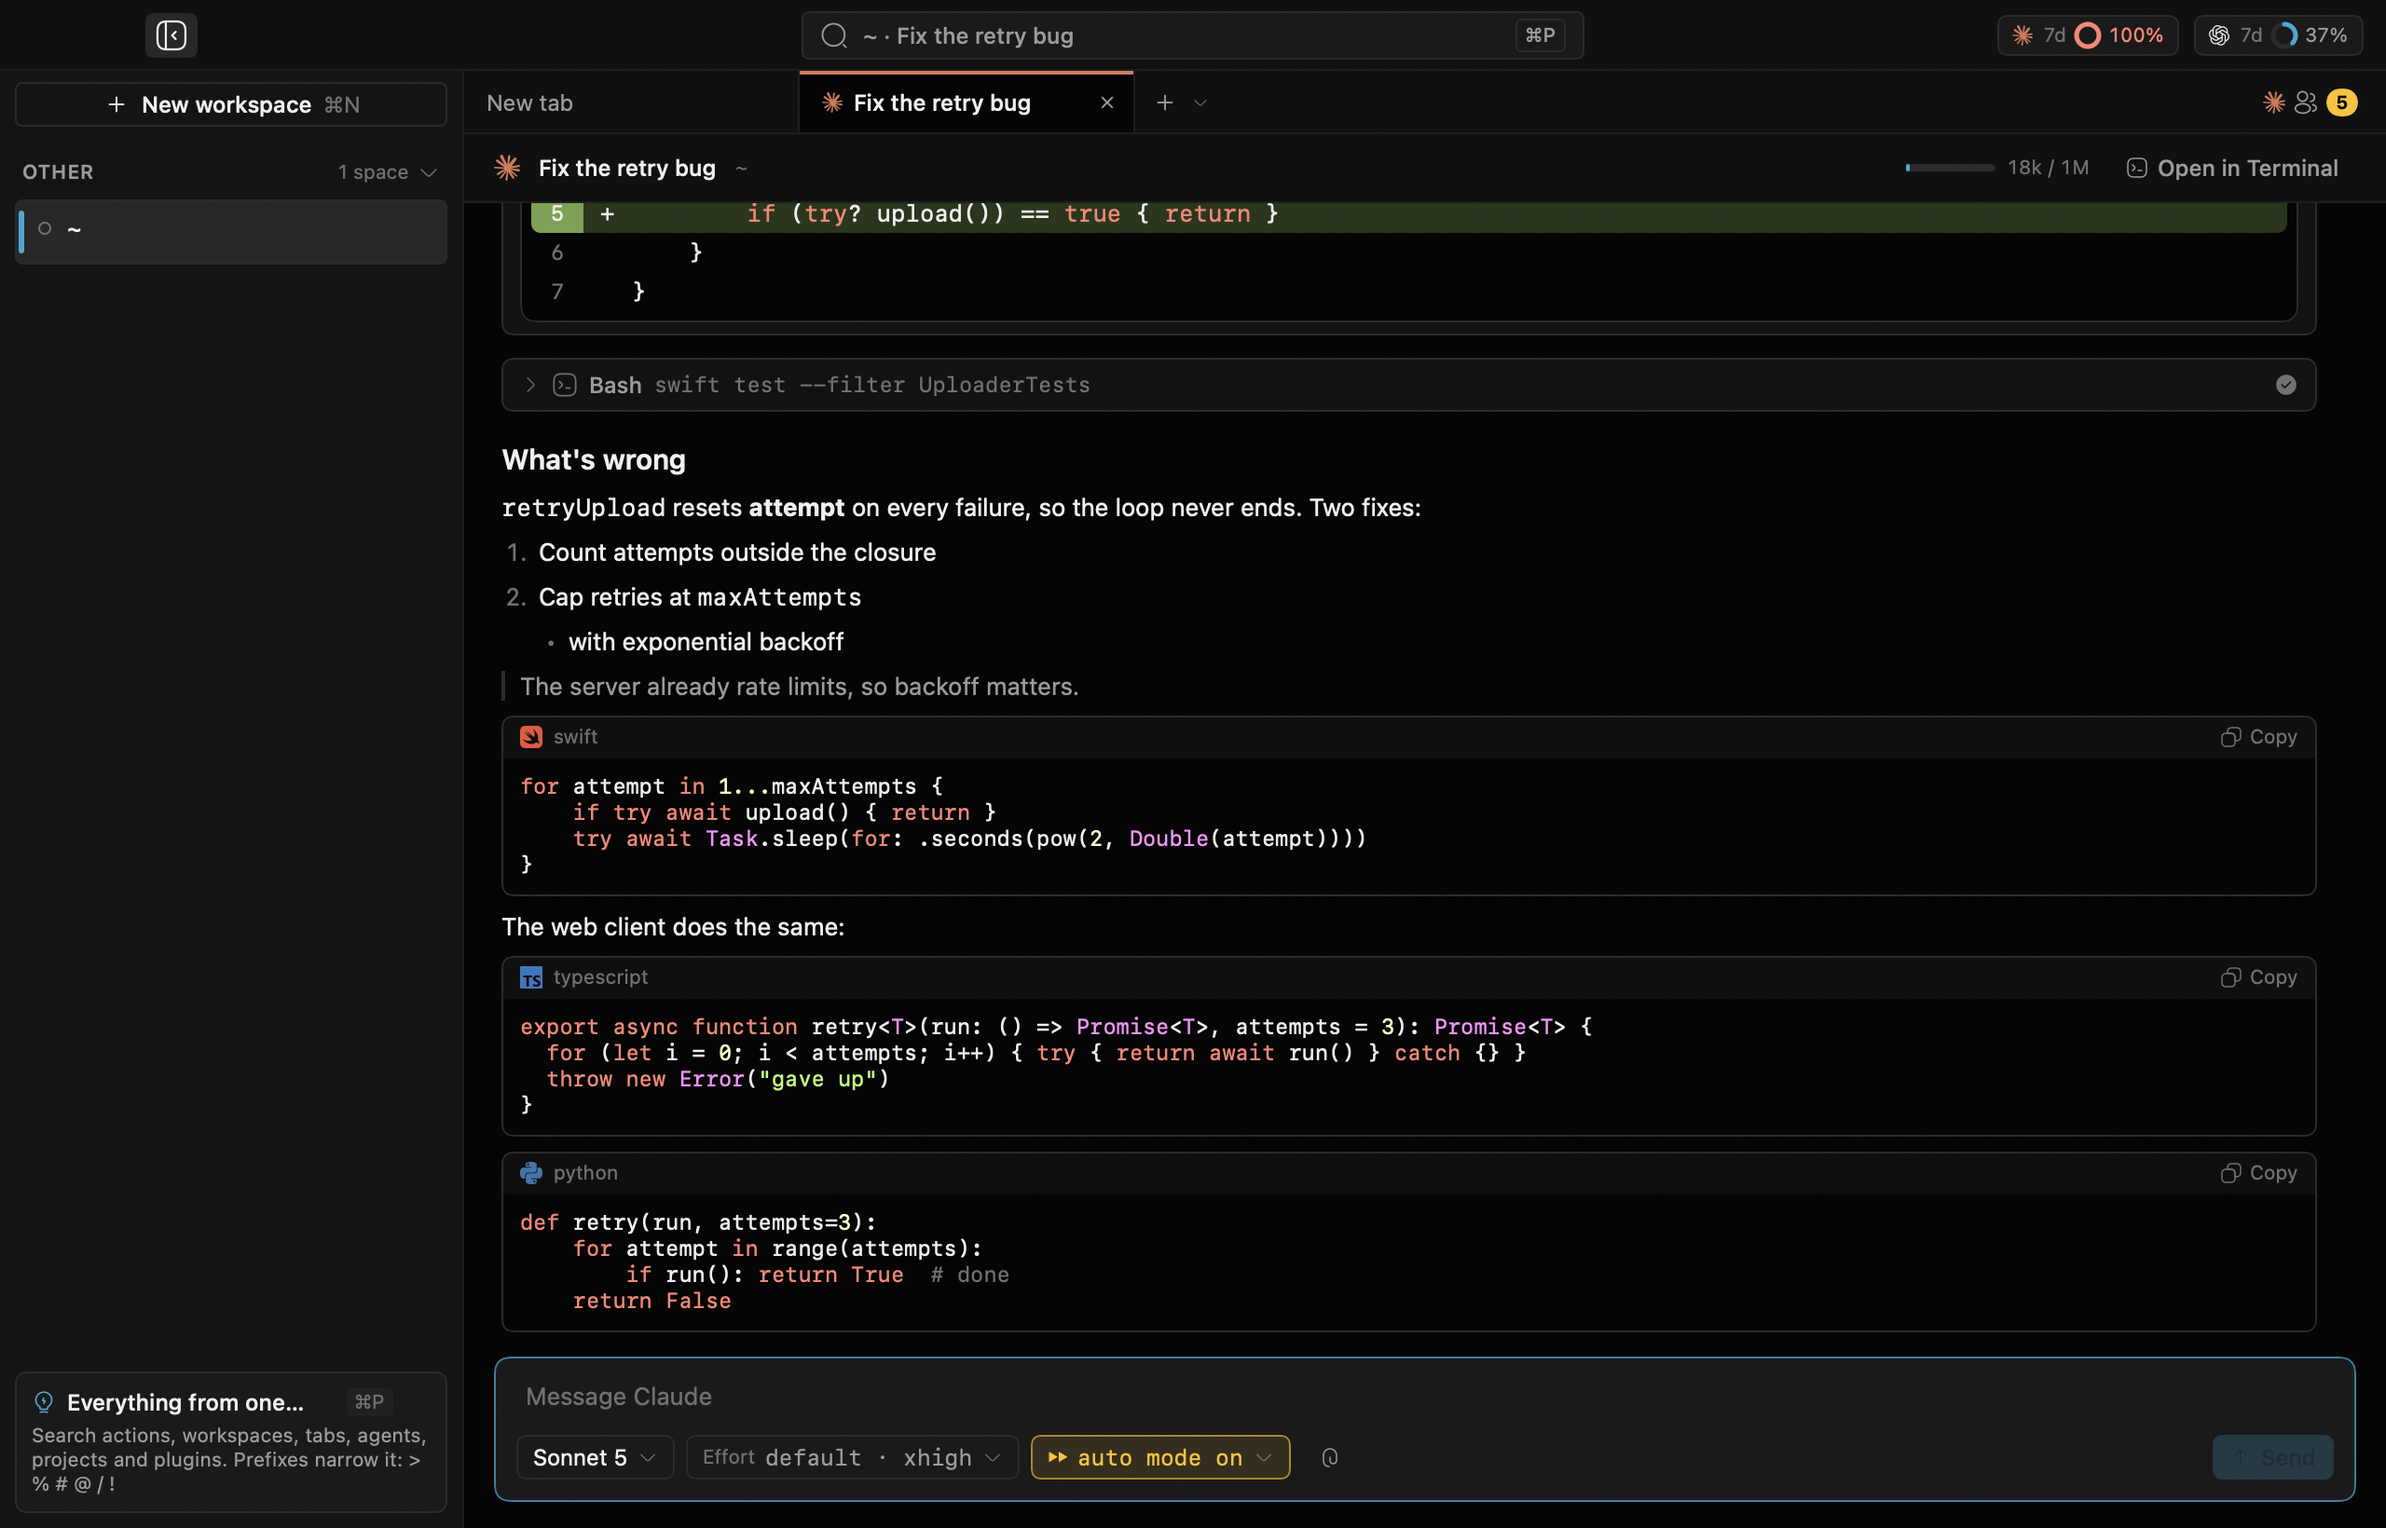
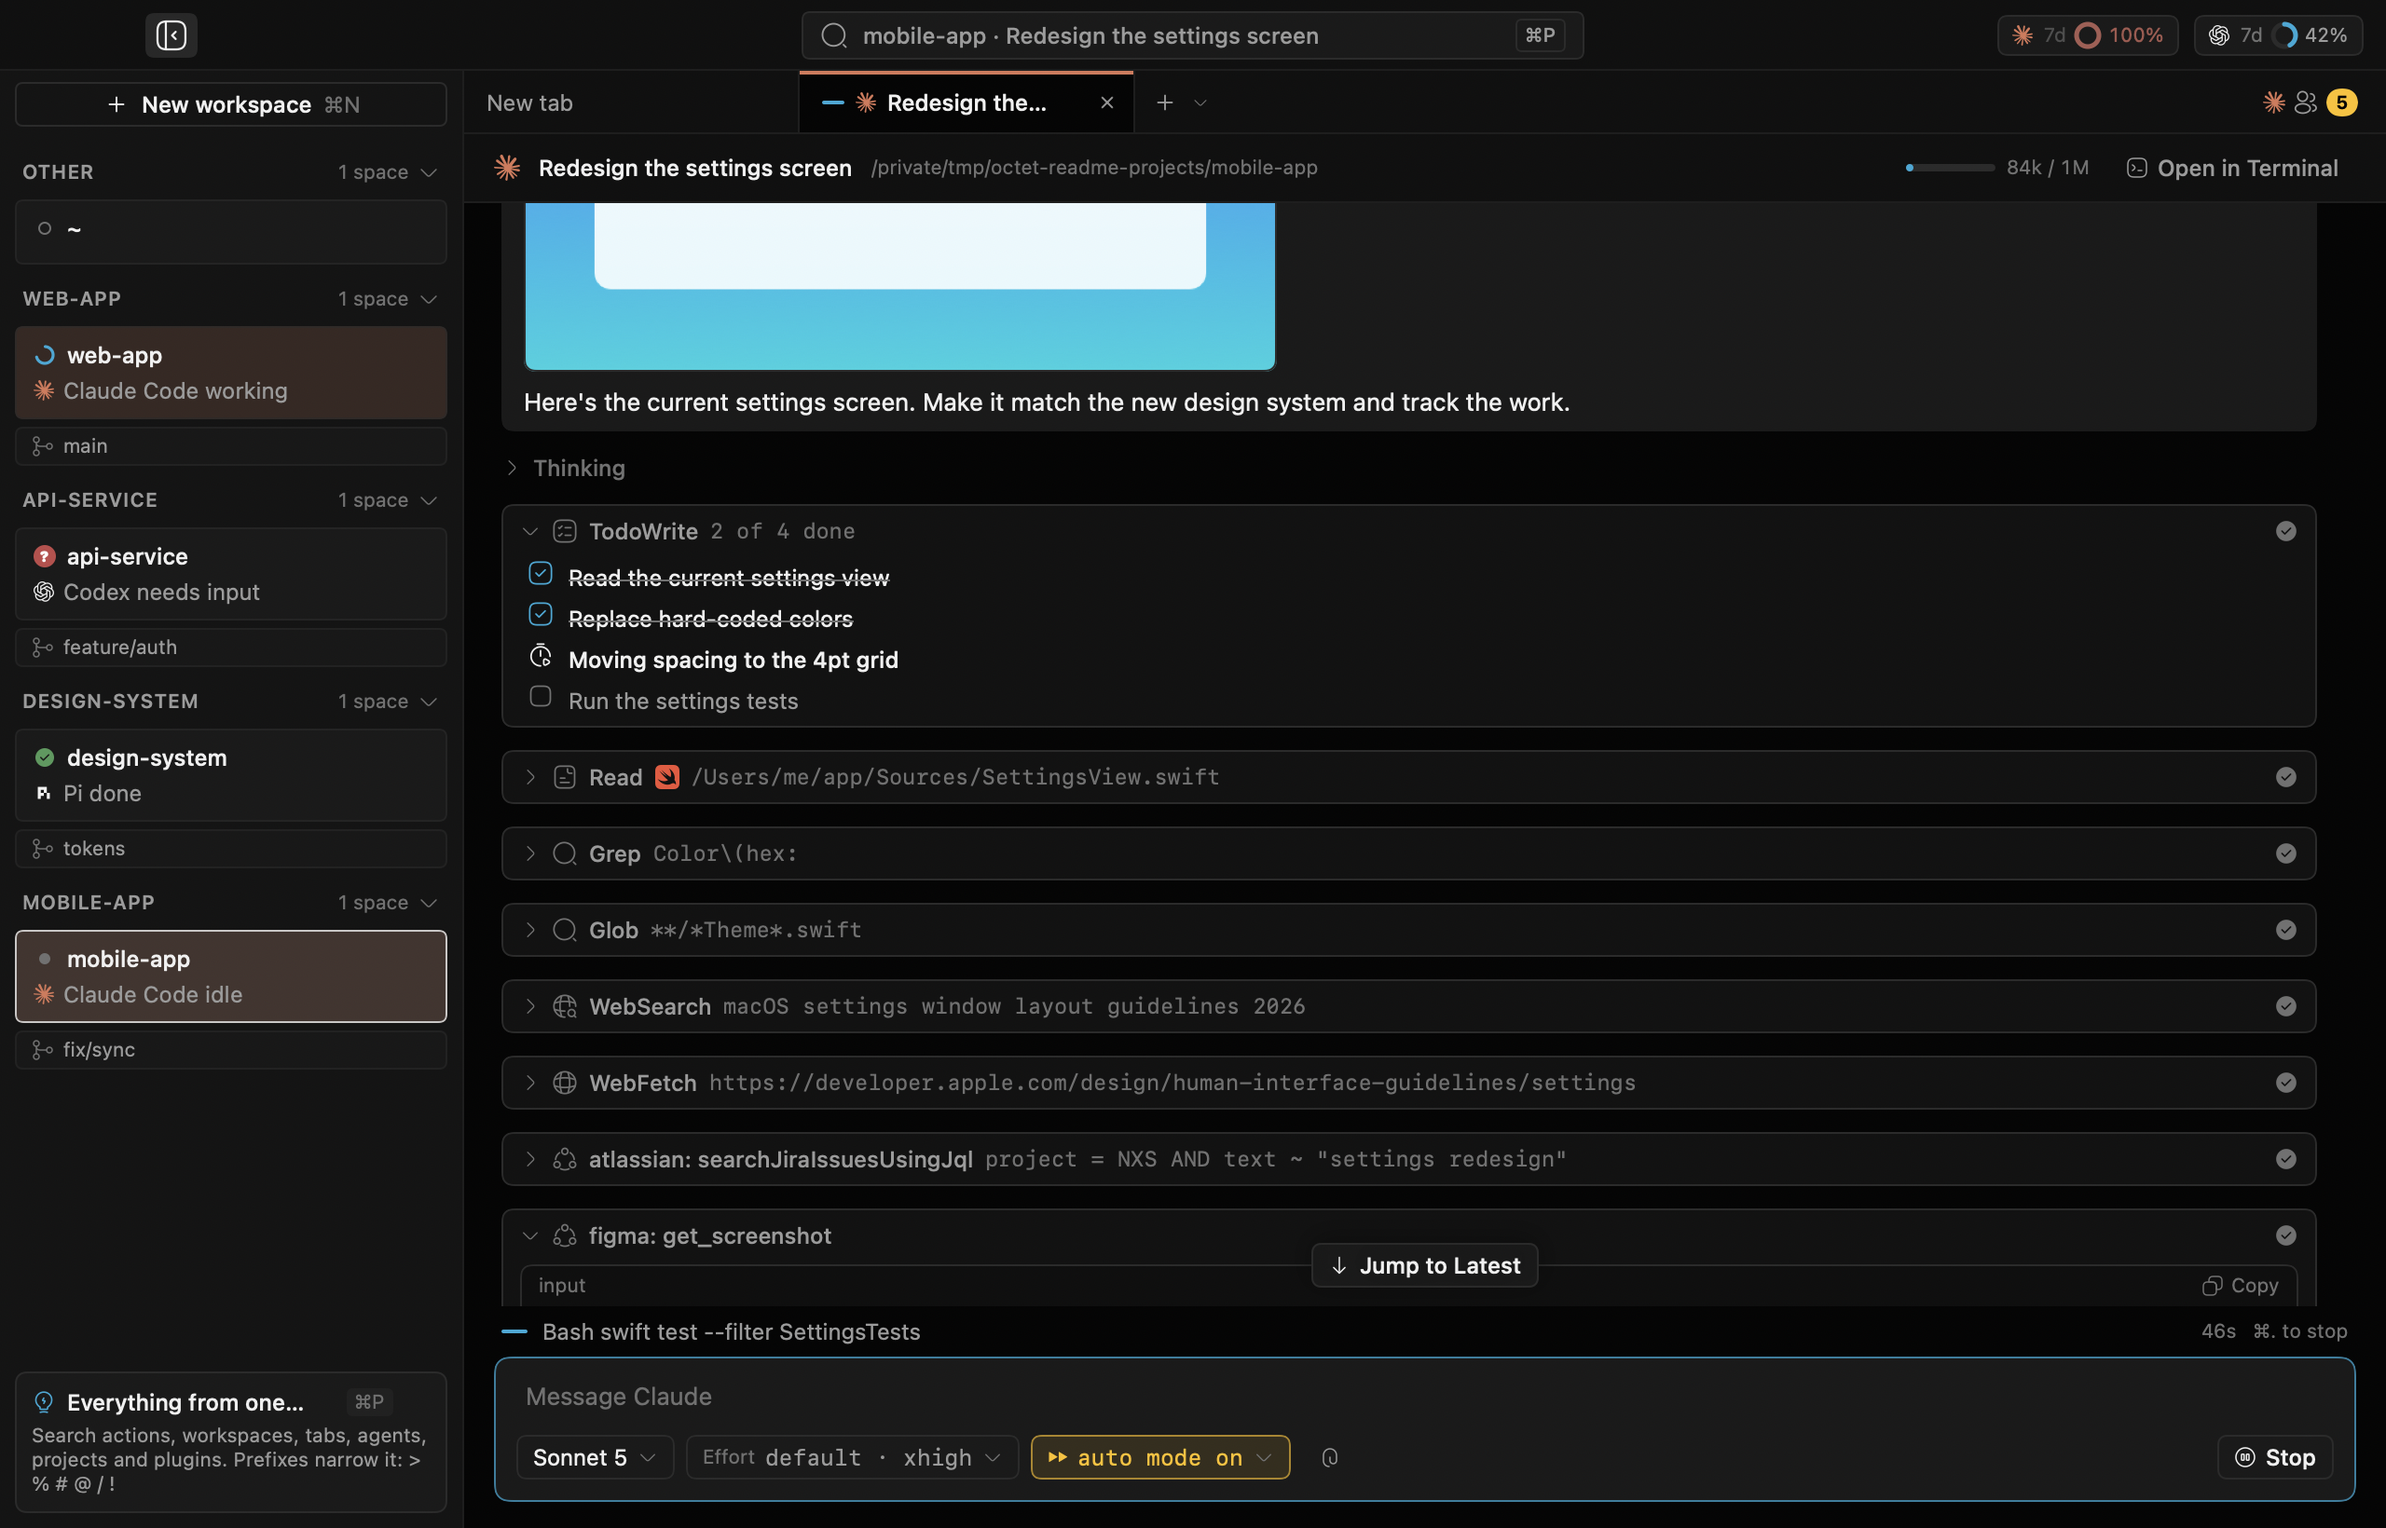
Polish sidebar states and README preview

diff --git a/Octet/Sidebar/AgentBadge.swift b/Octet/Sidebar/AgentBadge.swift
@@ -5,30 +5,51 @@ import SwiftUI
 struct AgentStateGlyph: View {
     let status: EngineAgentStatus
     var size: CGFloat = 10
+    @ObservedObject private var motion = MotionPreferences.shared
+    @State private var appeared = false
 
     var body: some View {
-        switch status {
-        case .working:
-            if MotionPreferences.shared.animates(.agentStatus) {
-                SpinnerArc(size: size)
-            } else {
-                Circle()
-                    .trim(from: 0.15, to: 0.85)
-                    .stroke(Theme.accent, style: StrokeStyle(lineWidth: 1.6, lineCap: .round))
-                    .frame(width: size - 1, height: size - 1)
-            }
-        case .blocked:
-            Image("state-blocked")
-                .resizable()
+        Group {
+            switch status {
+            case .working:
+                if motion.animates(.agentStatus) {
+                    SpinnerArc(size: size)
+                } else {
+                    Circle()
+                        .trim(from: 0.15, to: 0.85)
+                        .stroke(Theme.accent, style: StrokeStyle(lineWidth: 1.6, lineCap: .round))
+                        .frame(width: size - 1, height: size - 1)
+                }
+            case .blocked:
+                ZStack {
+                    Circle().fill(Color(hex: AgentStateColor.blocked))
+                    Text("?")
+                        .font(.system(size: size * 0.78, weight: .black, design: .rounded))
+                        .foregroundStyle(Color.white)
+                        .offset(y: -0.25)
+                }
                 .frame(width: size + 2, height: size + 2)
-                .foregroundStyle(Color(hex: AgentStateColor.blocked))
-        case .done:
-            OctetIcon("checkmark", size: (size - 1) * 1.35)
-                .foregroundStyle(Color(hex: AgentStateColor.done))
-        case .idle:
-            Circle().fill(Theme.textTertiary).frame(width: size - 4, height: size - 4)
-        case .unknown:
-            Circle().strokeBorder(Theme.textTertiary, lineWidth: 1).frame(width: size - 3, height: size - 3)
+            case .done:
+                OctetIcon("checkmark", size: (size - 1) * 1.35)
+                    .foregroundStyle(Color(hex: AgentStateColor.done))
+            case .idle:
+                Circle().fill(Theme.textTertiary).frame(width: size - 4, height: size - 4)
+            case .unknown:
+                Circle().strokeBorder(Theme.textTertiary, lineWidth: 1).frame(width: size - 3, height: size - 3)
+            }
+        }
+        .scaleEffect(appeared ? 1 : 0.55)
+        .opacity(appeared ? 1 : 0)
+        .onAppear { animateIn() }
+        .onChange(of: status) { _, _ in
+            appeared = false
+            DispatchQueue.main.async { animateIn() }
+        }
+    }
+
+    private func animateIn() {
+        motion.perform(.agentStatus, .spring(response: 0.28, dampingFraction: 0.62)) {
+            appeared = true
         }
     }
 }

diff --git a/Octet/Tabs/TabBarView.swift b/Octet/Tabs/TabBarView.swift
@@ -207,11 +207,12 @@ private struct TabItem: View {
                 }
                 // A single selection surface slides between tabs.
                 if isActive {
-                    ZStack {
+                    ZStack(alignment: .top) {
                         Theme.terminalBackground
                         if let hue = brand?.hueHex { Color(hex: hue).opacity(0.08) }
                         Rectangle()
-                            .strokeBorder(Theme.textPrimary.opacity(0.72), lineWidth: 1)
+                            .fill(brand?.hueHex.map { Color(hex: $0) } ?? Theme.accent)
+                            .frame(height: 2)
                     }
                     .matchedGeometryEffect(id: "selectedTab", in: selection)
                 }
@@ -556,10 +557,9 @@ private struct ConversationTab: View {
             ZStack {
                 if hovered && !isActive { Theme.hover }
                 if isActive {
-                    ZStack {
+                    ZStack(alignment: .top) {
                         Theme.terminalBackground
-                        Rectangle()
-                            .strokeBorder(Theme.textPrimary.opacity(0.72), lineWidth: 1)
+                        Rectangle().fill(brand?.hueHex.map { Color(hex: $0) } ?? Theme.accent).frame(height: 2)
                     }
                     .matchedGeometryEffect(id: "selectedTab", in: selection)
                 }

diff --git a/Octet/App/RootView.swift b/Octet/App/RootView.swift
@@ -190,19 +190,10 @@ struct RootView: View {
             MarketplaceWindow.opener = { openWindow(id: MarketplaceWindow.id) }
             ClipboardWatcher.shared.start()
             #if DEBUG
-            let readmeDemo = ProcessInfo.processInfo.environment["OCTET_README_DEMO"] != nil
-            if readmeDemo {
-                let projects = ["web-app", "api-service", "design-system", "mobile-app"]
-                for (index, project) in projects.enumerated() {
-                    DispatchQueue.main.asyncAfter(deadline: .now() + 0.7 + Double(index) * 0.8) {
-                        self.window.openProject(path: "/private/tmp/octet-readme-projects/" + project)
-                    }
-                }
-            }
             // Verification hook: "conversation" opens a native conversation;
             // "conversation:model" also opens that dropdown.
             if let window = ProcessInfo.processInfo.environment["OCTET_OPEN_WINDOW"], window.hasPrefix("conversation") {
-                DispatchQueue.main.asyncAfter(deadline: .now() + (readmeDemo ? 5.0 : 2.0)) {
+                DispatchQueue.main.asyncAfter(deadline: .now() + 2) {
                     self.window.newConversation()
                     let parts = window.split(separator: ":").map(String.init)
                     ConversationDebug.openDropdown = parts.dropFirst().first

diff --git a/Octet/Sidebar/SidebarView.swift b/Octet/Sidebar/SidebarView.swift
@@ -266,18 +266,9 @@ private struct WorkspaceCard: View {
         .background(cardBackground(isSelected: isSelected, hue: brand?.hueHex))
         .overlay(
             RoundedRectangle(cornerRadius: Theme.rowRadius)
-                .strokeBorder(isSelected || hovered ? Theme.border : Theme.border.opacity(0.6), lineWidth: 1)
+                .strokeBorder(isSelected ? Theme.textPrimary.opacity(0.78)
+                    : (hovered ? Theme.border : Theme.border.opacity(0.6)), lineWidth: 1)
         )
-        // A leading rail marks the focused workspace even under a hue tint.
-        .overlay(alignment: .leading) {
-            if isSelected {
-                Capsule()
-                    .fill(brand?.hueHex.map { Color(hex: $0) } ?? Theme.accent)
-                    .frame(width: 3)
-                    .padding(.vertical, 6)
-                    .padding(.leading, 2)
-            }
-        }
         .clipShape(RoundedRectangle(cornerRadius: Theme.rowRadius))
         .contentShape(Rectangle())
         .onHover { hovering in
